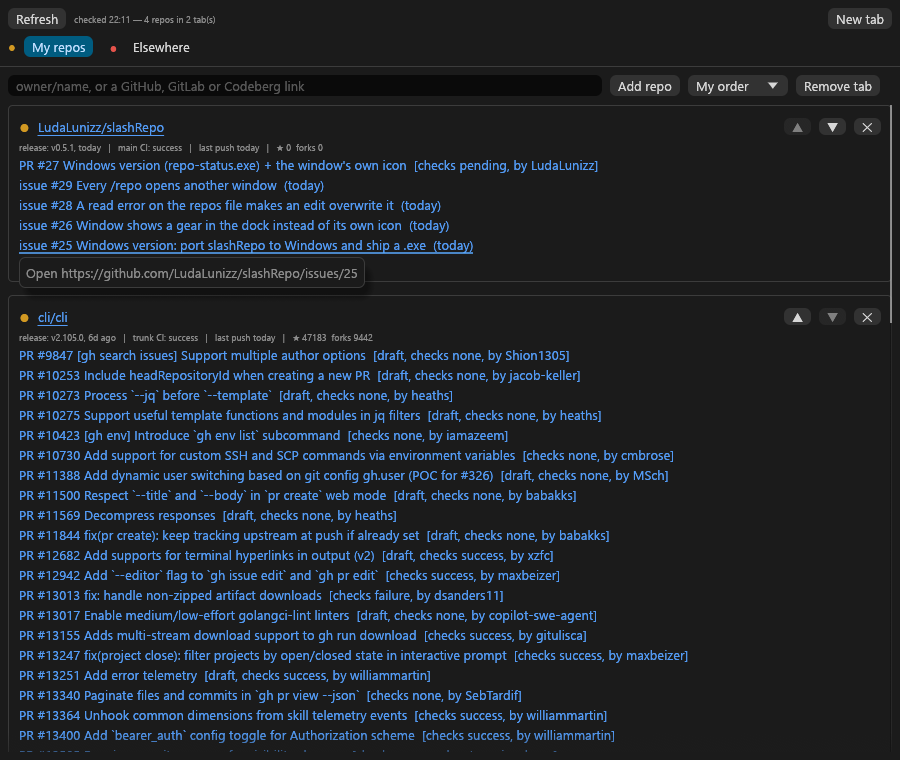
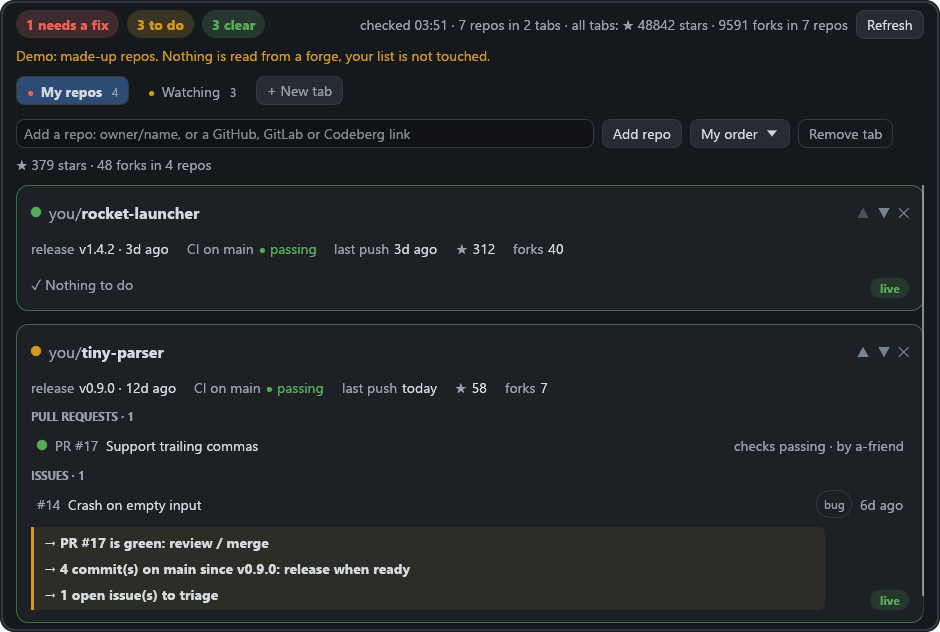
README: the Windows picture is the new window with the demo repos
Taken by the CI windows job of this branch (window-demo.png), cut off
between two cards and given rounded corners by docs/src/make.py --round.

Changed region(s): [[0.0, 0.0, 1.0, 1.0], [0.4978, 0.3908, 0.5911, 0.4209]]

diff --git a/docs/src/make.py b/docs/src/make.py
@@ -8,7 +8,8 @@ the window pictures are taken from `repo-status --demo`, so they show made-up re
 Needs: firefox (for the drawn pictures), gtk4-broadwayd (for the window), Pillow, optipng (optional). Nothing appears on your desktop.
 window-windows.png is not made here: it is the picture the CI `windows` job saves
 (artifact repo-status-windows, file window-demo.png); round its corners with:
-    python3 docs/src/make.py --round FILE.png docs/window-windows.png
+    python3 docs/src/make.py --round FILE.png docs/window-windows.png [HEIGHT]
+(HEIGHT cuts the picture off there, between two cards: the runner's screen is lower than the window).
 """
 import pathlib, shutil, subprocess, sys, tempfile
 from PIL import Image, ImageDraw
@@ -49,7 +50,11 @@ def page(html, width, height, tmp):
 
 def main():
     if sys.argv[1:2] == ["--round"]:
-        rounded(Image.open(sys.argv[2])).save(sys.argv[3])
+        im = Image.open(sys.argv[2])
+        if len(sys.argv) > 4:
+            im = im.crop((0, 0, im.width, int(sys.argv[4])))
+        # the Windows picture is at single density: half the radius of the 2x pictures
+        rounded(im, radius=14 if im.width < 1200 else 28).save(sys.argv[3])
         return
     # work files under target/ and /tmp: a Firefox from a snap sees your home folder but not the
     # real /tmp, and the window binary needs a path without spaces

diff --git a/CONTRIBUTING.md b/CONTRIBUTING.md
@@ -61,7 +61,7 @@ cargo build --release && python3 docs/src/make.py
 It takes the window pictures from `repo-status --demo` on an off-screen display (nothing appears on
 your desktop) and draws the banner and the two explainers from the HTML files with a headless Firefox.
 `docs/window-windows.png` is `window-demo.png` from the CI artifact, with rounded corners
-(`python3 docs/src/make.py --round IN.png docs/window-windows.png`). Remake them when the window changes.
+(`python3 docs/src/make.py --round IN.png docs/window-windows.png 632`). Remake them when the window changes.
 `docs/social-preview.png` is the picture for the repo's social preview (set by hand in the repo settings).
 
 ## Conventions
